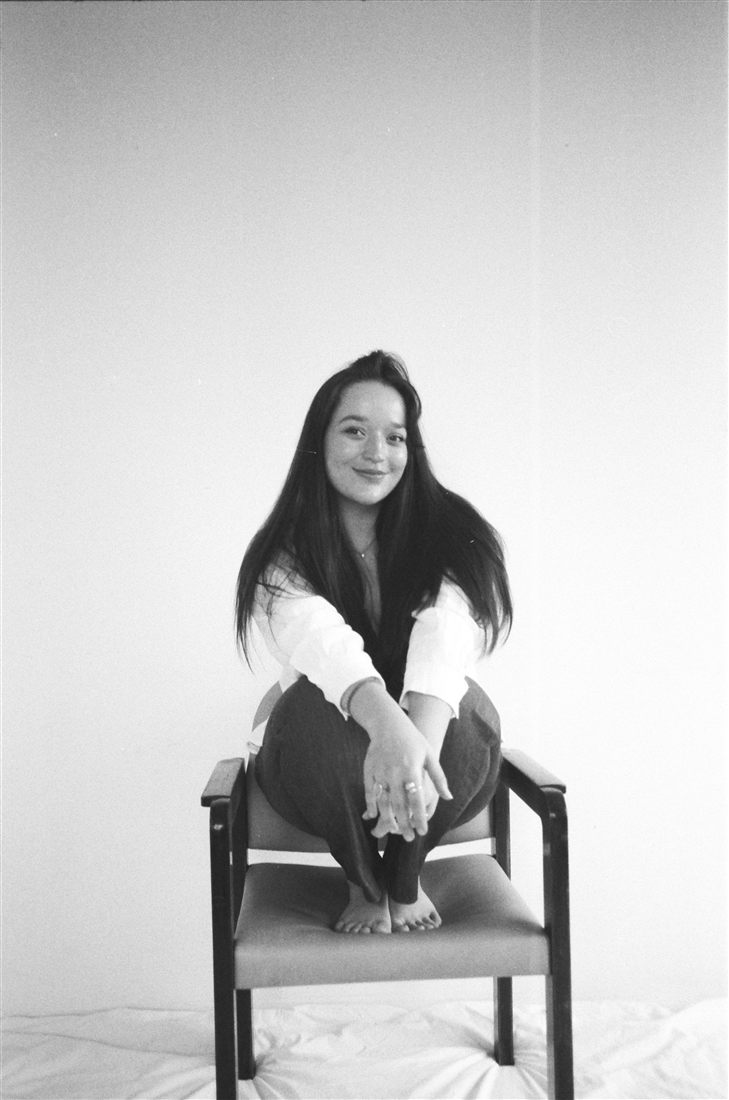
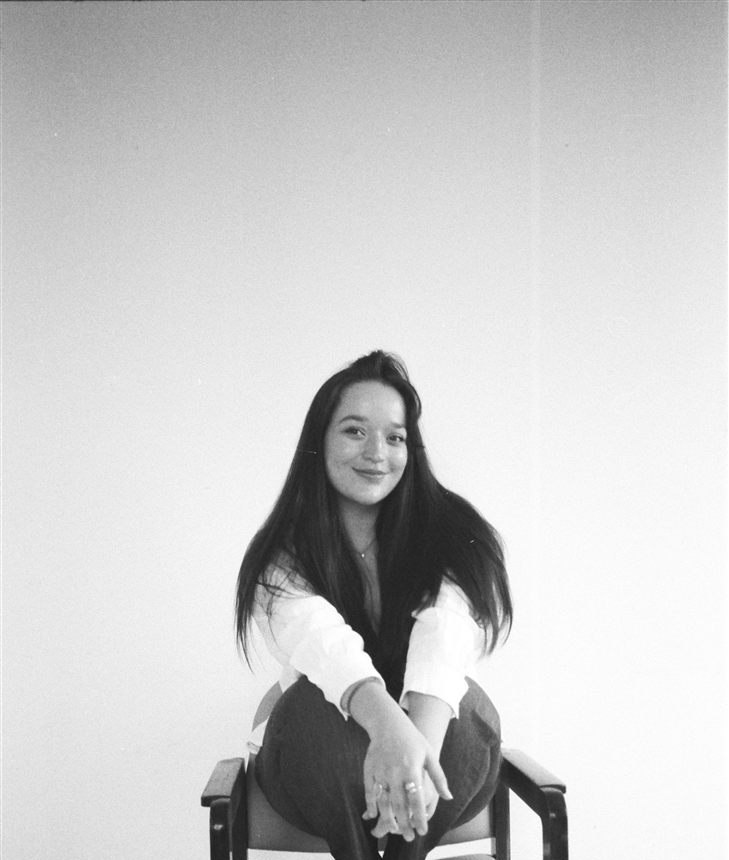
About: crop feet out of portrait-1; hero on phones: raise the photo so her face sits higher

Changed region(s): [[0.0, 0.3023, 0.8148, 1.0], [0.9053, 0.9674, 0.9657, 1.0]]

diff --git a/about.html b/about.html
@@ -23,7 +23,7 @@
 <link rel="preconnect" href="https://fonts.googleapis.com">
 <link rel="preconnect" href="https://fonts.gstatic.com" crossorigin>
 <link href="https://fonts.googleapis.com/css2?family=Bodoni+Moda:ital,wght@0,400;0,500;0,600;0,700;1,400;1,500;1,600;1,700&family=Space+Mono:wght@400;700&family=Inter:wght@400;500;600;700&display=swap" rel="stylesheet">
-<link rel="stylesheet" href="styles.css?v=10">
+<link rel="stylesheet" href="styles.css?v=12">
 </head>
 <body>
 <a class="skip-link" href="#main-content">Skip to content</a>
@@ -173,7 +173,7 @@
 <script src="config.js"></script>
 <script src="https://cdn.jsdelivr.net/npm/@supabase/supabase-js@2"></script>
 <script src="i18n.js"></script>
-<script src="script.js?v=10"></script>
-<script src="content.js?v=10"></script>
+<script src="script.js?v=12"></script>
+<script src="content.js?v=12"></script>
 </body>
 </html>

diff --git a/contact.html b/contact.html
@@ -23,7 +23,7 @@
 <link rel="preconnect" href="https://fonts.googleapis.com">
 <link rel="preconnect" href="https://fonts.gstatic.com" crossorigin>
 <link href="https://fonts.googleapis.com/css2?family=Bodoni+Moda:ital,wght@0,400;0,500;0,600;0,700;1,400;1,500;1,600;1,700&family=Space+Mono:wght@400;700&family=Inter:wght@400;500;600;700&display=swap" rel="stylesheet">
-<link rel="stylesheet" href="styles.css?v=10">
+<link rel="stylesheet" href="styles.css?v=12">
 </head>
 <body>
 <a class="skip-link" href="#main-content">Skip to content</a>
@@ -191,7 +191,7 @@
 <script src="config.js"></script>
 <script src="https://cdn.jsdelivr.net/npm/@supabase/supabase-js@2"></script>
 <script src="i18n.js"></script>
-<script src="script.js?v=10"></script>
-<script src="content.js?v=10"></script>
+<script src="script.js?v=12"></script>
+<script src="content.js?v=12"></script>
 </body>
 </html>

diff --git a/index.html b/index.html
@@ -26,7 +26,7 @@
 <link rel="preconnect" href="https://fonts.googleapis.com">
 <link rel="preconnect" href="https://fonts.gstatic.com" crossorigin>
 <link href="https://fonts.googleapis.com/css2?family=Bodoni+Moda:ital,wght@0,400;0,500;0,600;0,700;1,400;1,500;1,600;1,700&family=Space+Mono:wght@400;700&family=Inter:wght@400;500;600;700&display=swap" rel="stylesheet">
-<link rel="stylesheet" href="styles.css?v=10">
+<link rel="stylesheet" href="styles.css?v=12">
 </head>
 <body>
 <a class="skip-link" href="#main-content">Skip to content</a>
@@ -347,7 +347,7 @@
 <script src="config.js"></script>
 <script src="https://cdn.jsdelivr.net/npm/@supabase/supabase-js@2"></script>
 <script src="i18n.js"></script>
-<script src="script.js?v=10"></script>
-<script src="content.js?v=10"></script>
+<script src="script.js?v=12"></script>
+<script src="content.js?v=12"></script>
 </body>
 </html>

diff --git a/services.html b/services.html
@@ -23,7 +23,7 @@
 <link rel="preconnect" href="https://fonts.googleapis.com">
 <link rel="preconnect" href="https://fonts.gstatic.com" crossorigin>
 <link href="https://fonts.googleapis.com/css2?family=Bodoni+Moda:ital,wght@0,400;0,500;0,600;0,700;1,400;1,500;1,600;1,700&family=Space+Mono:wght@400;700&family=Inter:wght@400;500;600;700&display=swap" rel="stylesheet">
-<link rel="stylesheet" href="styles.css?v=10">
+<link rel="stylesheet" href="styles.css?v=12">
 </head>
 <body>
 <a class="skip-link" href="#main-content">Skip to content</a>
@@ -179,7 +179,7 @@
 <script src="config.js"></script>
 <script src="https://cdn.jsdelivr.net/npm/@supabase/supabase-js@2"></script>
 <script src="i18n.js"></script>
-<script src="script.js?v=10"></script>
-<script src="content.js?v=10"></script>
+<script src="script.js?v=12"></script>
+<script src="content.js?v=12"></script>
 </body>
 </html>

diff --git a/work-detail.html b/work-detail.html
@@ -22,7 +22,7 @@
 <link rel="preconnect" href="https://fonts.googleapis.com">
 <link rel="preconnect" href="https://fonts.gstatic.com" crossorigin>
 <link href="https://fonts.googleapis.com/css2?family=Bodoni+Moda:ital,wght@0,400;0,500;0,600;0,700;1,400;1,500;1,600;1,700&family=Space+Mono:wght@400;700&family=Inter:wght@400;500;600;700&display=swap" rel="stylesheet">
-<link rel="stylesheet" href="styles.css?v=10">
+<link rel="stylesheet" href="styles.css?v=12">
 </head>
 <body>
 <a class="skip-link" href="#main-content">Skip to content</a>
@@ -164,7 +164,7 @@
 <script src="config.js"></script>
 <script src="https://cdn.jsdelivr.net/npm/@supabase/supabase-js@2"></script>
 <script src="i18n.js"></script>
-<script src="script.js?v=10"></script>
-<script src="content.js?v=10"></script>
+<script src="script.js?v=12"></script>
+<script src="content.js?v=12"></script>
 </body>
 </html>

diff --git a/work.html b/work.html
@@ -23,7 +23,7 @@
 <link rel="preconnect" href="https://fonts.googleapis.com">
 <link rel="preconnect" href="https://fonts.gstatic.com" crossorigin>
 <link href="https://fonts.googleapis.com/css2?family=Bodoni+Moda:ital,wght@0,400;0,500;0,600;0,700;1,400;1,500;1,600;1,700&family=Space+Mono:wght@400;700&family=Inter:wght@400;500;600;700&display=swap" rel="stylesheet">
-<link rel="stylesheet" href="styles.css?v=10">
+<link rel="stylesheet" href="styles.css?v=12">
 </head>
 <body>
 <a class="skip-link" href="#main-content">Skip to content</a>
@@ -173,7 +173,7 @@
 <script src="config.js"></script>
 <script src="https://cdn.jsdelivr.net/npm/@supabase/supabase-js@2"></script>
 <script src="i18n.js"></script>
-<script src="script.js?v=10"></script>
-<script src="content.js?v=10"></script>
+<script src="script.js?v=12"></script>
+<script src="content.js?v=12"></script>
 </body>
 </html>

diff --git a/404.html b/404.html
@@ -11,7 +11,7 @@
 <link rel="preconnect" href="https://fonts.googleapis.com">
 <link rel="preconnect" href="https://fonts.gstatic.com" crossorigin>
 <link href="https://fonts.googleapis.com/css2?family=Bodoni+Moda:ital,wght@0,400;0,500;0,600;0,700;1,400;1,500;1,600;1,700&family=Space+Mono:wght@400;700&family=Inter:wght@400;500;600;700&display=swap" rel="stylesheet">
-<link rel="stylesheet" href="/juana-salonia-portfolio/styles.css?v=10">
+<link rel="stylesheet" href="/juana-salonia-portfolio/styles.css?v=12">
 </head>
 <body>
 <a class="skip-link" href="#main-content">Skip to content</a>
@@ -56,6 +56,6 @@
 </main>
 
 <script src="/juana-salonia-portfolio/i18n.js"></script>
-<script src="/juana-salonia-portfolio/script.js?v=10"></script>
+<script src="/juana-salonia-portfolio/script.js?v=12"></script>
 </body>
 </html>

diff --git a/admin.html b/admin.html
@@ -12,7 +12,7 @@
 <link rel="preconnect" href="https://fonts.googleapis.com">
 <link rel="preconnect" href="https://fonts.gstatic.com" crossorigin>
 <link href="https://fonts.googleapis.com/css2?family=Fraunces:wght@400;500&family=Space+Mono:wght@400&family=Inter:wght@400;500;600&display=swap" rel="stylesheet">
-<link rel="stylesheet" href="admin.css?v=10">
+<link rel="stylesheet" href="admin.css?v=12">
 </head>
 <body>
 <div class="topbar">
@@ -29,6 +29,6 @@
 
 <script src="config.js"></script>
 <script src="https://cdn.jsdelivr.net/npm/@supabase/supabase-js@2"></script>
-<script src="admin.js?v=10"></script>
+<script src="admin.js?v=12"></script>
 </body>
 </html>

diff --git a/styles.css b/styles.css
@@ -249,7 +249,7 @@ p{ margin: 0; }
 /* phones: zoom in and crop the bottom so her feet stay out of frame */
 @media (max-width: 719px){
   .hero-photo-full{ overflow: hidden; }
-  .hero-photo-full img{ height: 170%; transform: translateY(-5%); object-position: 68% top; }
+  .hero-photo-full img{ height: 210%; transform: translateY(-16%); object-position: 66% top; }
 }
 
 .hero-overlay{
